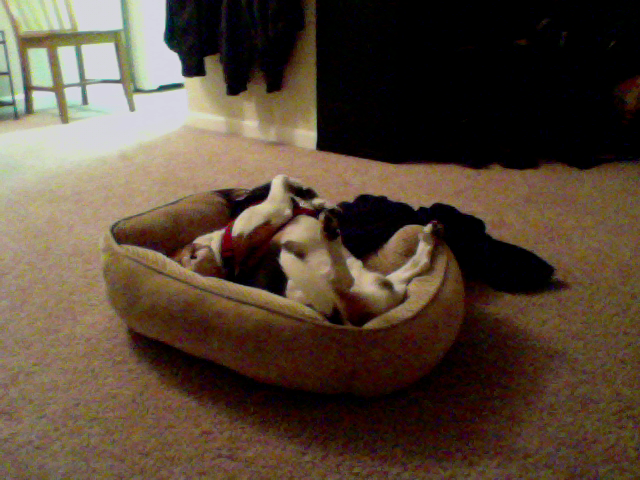
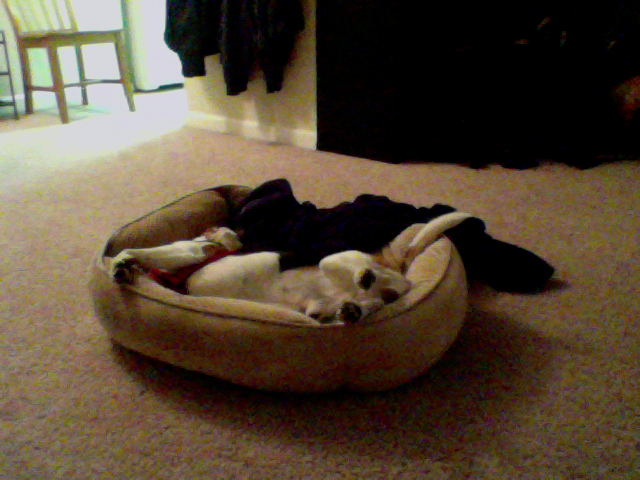
update at Month05Day07Time21:21

diff --git a/index.html b/index.html
@@ -39,8 +39,8 @@
       <!-- Example row of columns -->
       <div class="row">
         <div class="col-md-4">
-	<p>This picture was updated at Month05Day07Time21:20</p>
-		<img src="10_pic.png" />
+	<p>This picture was updated at Month05Day07Time21:21</p>
+		<img src="2_pic.png" />
         </div>
       </div>
 
